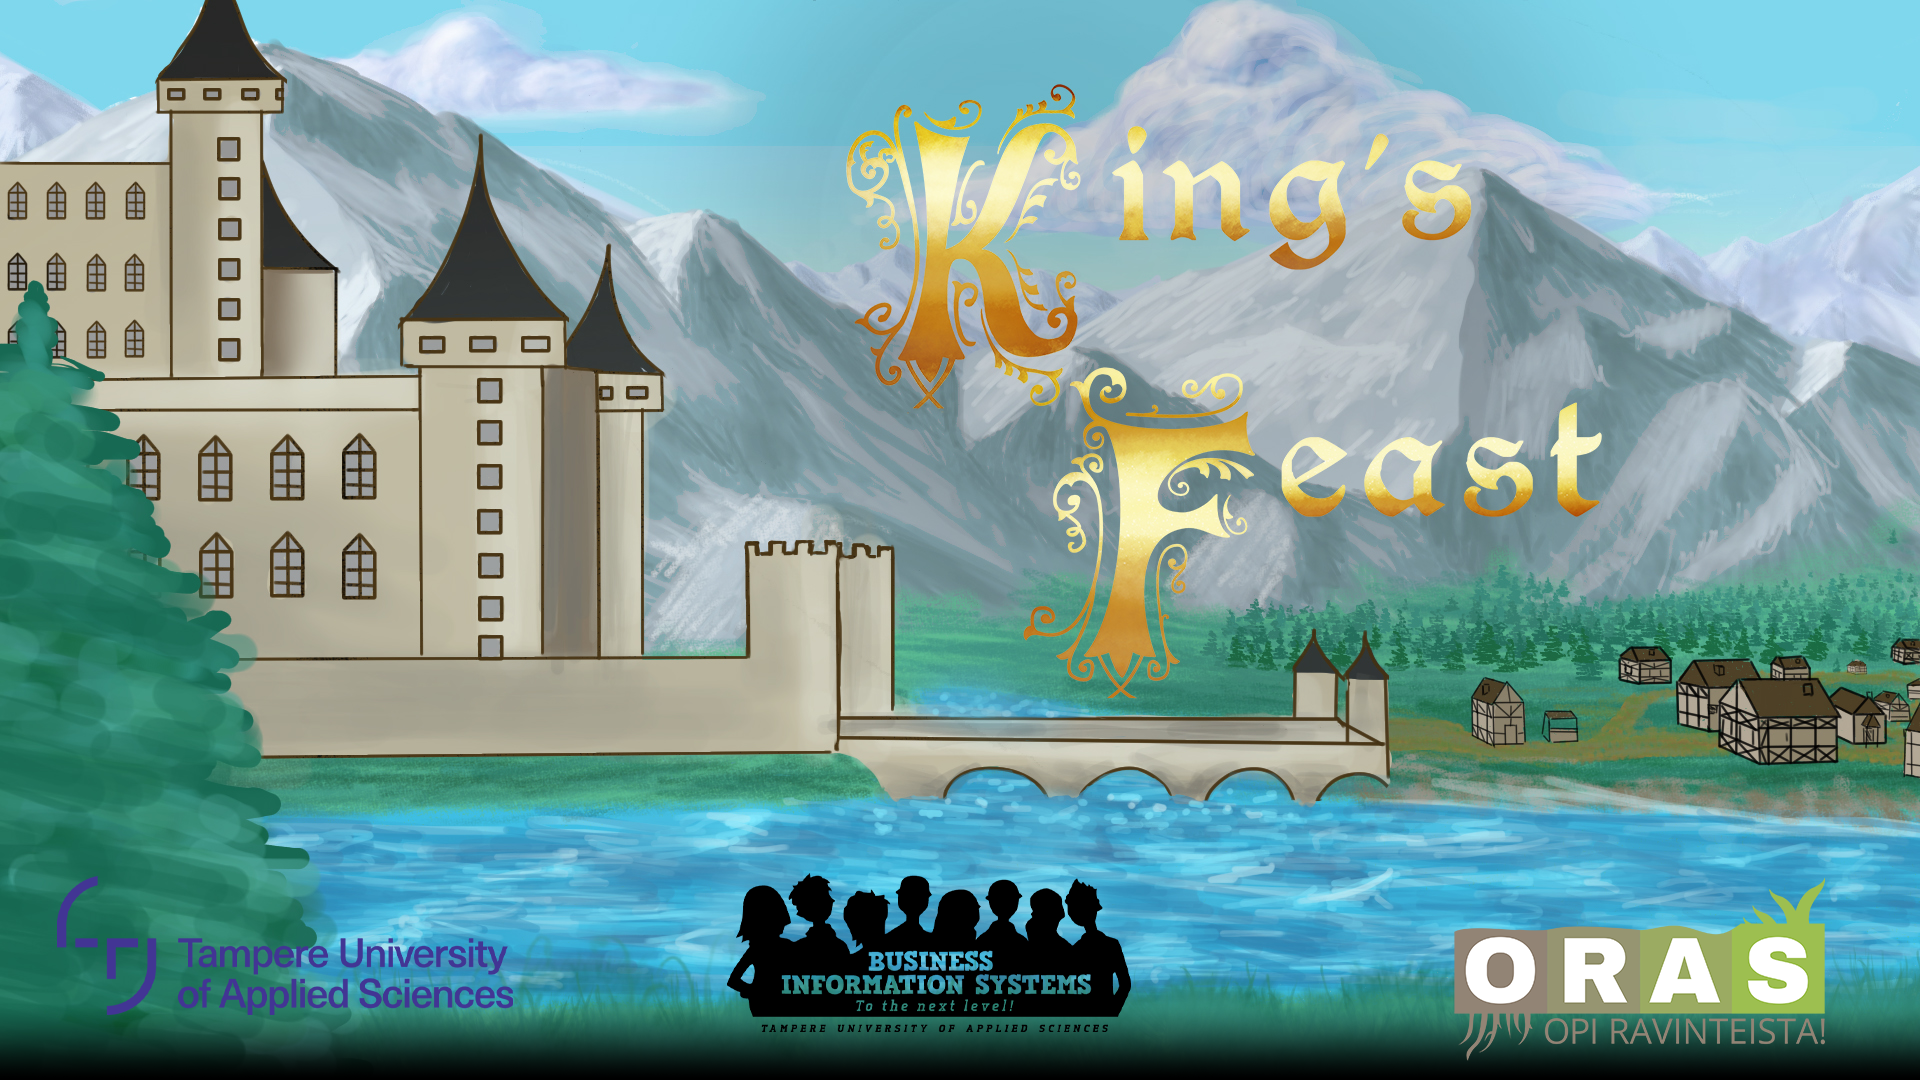
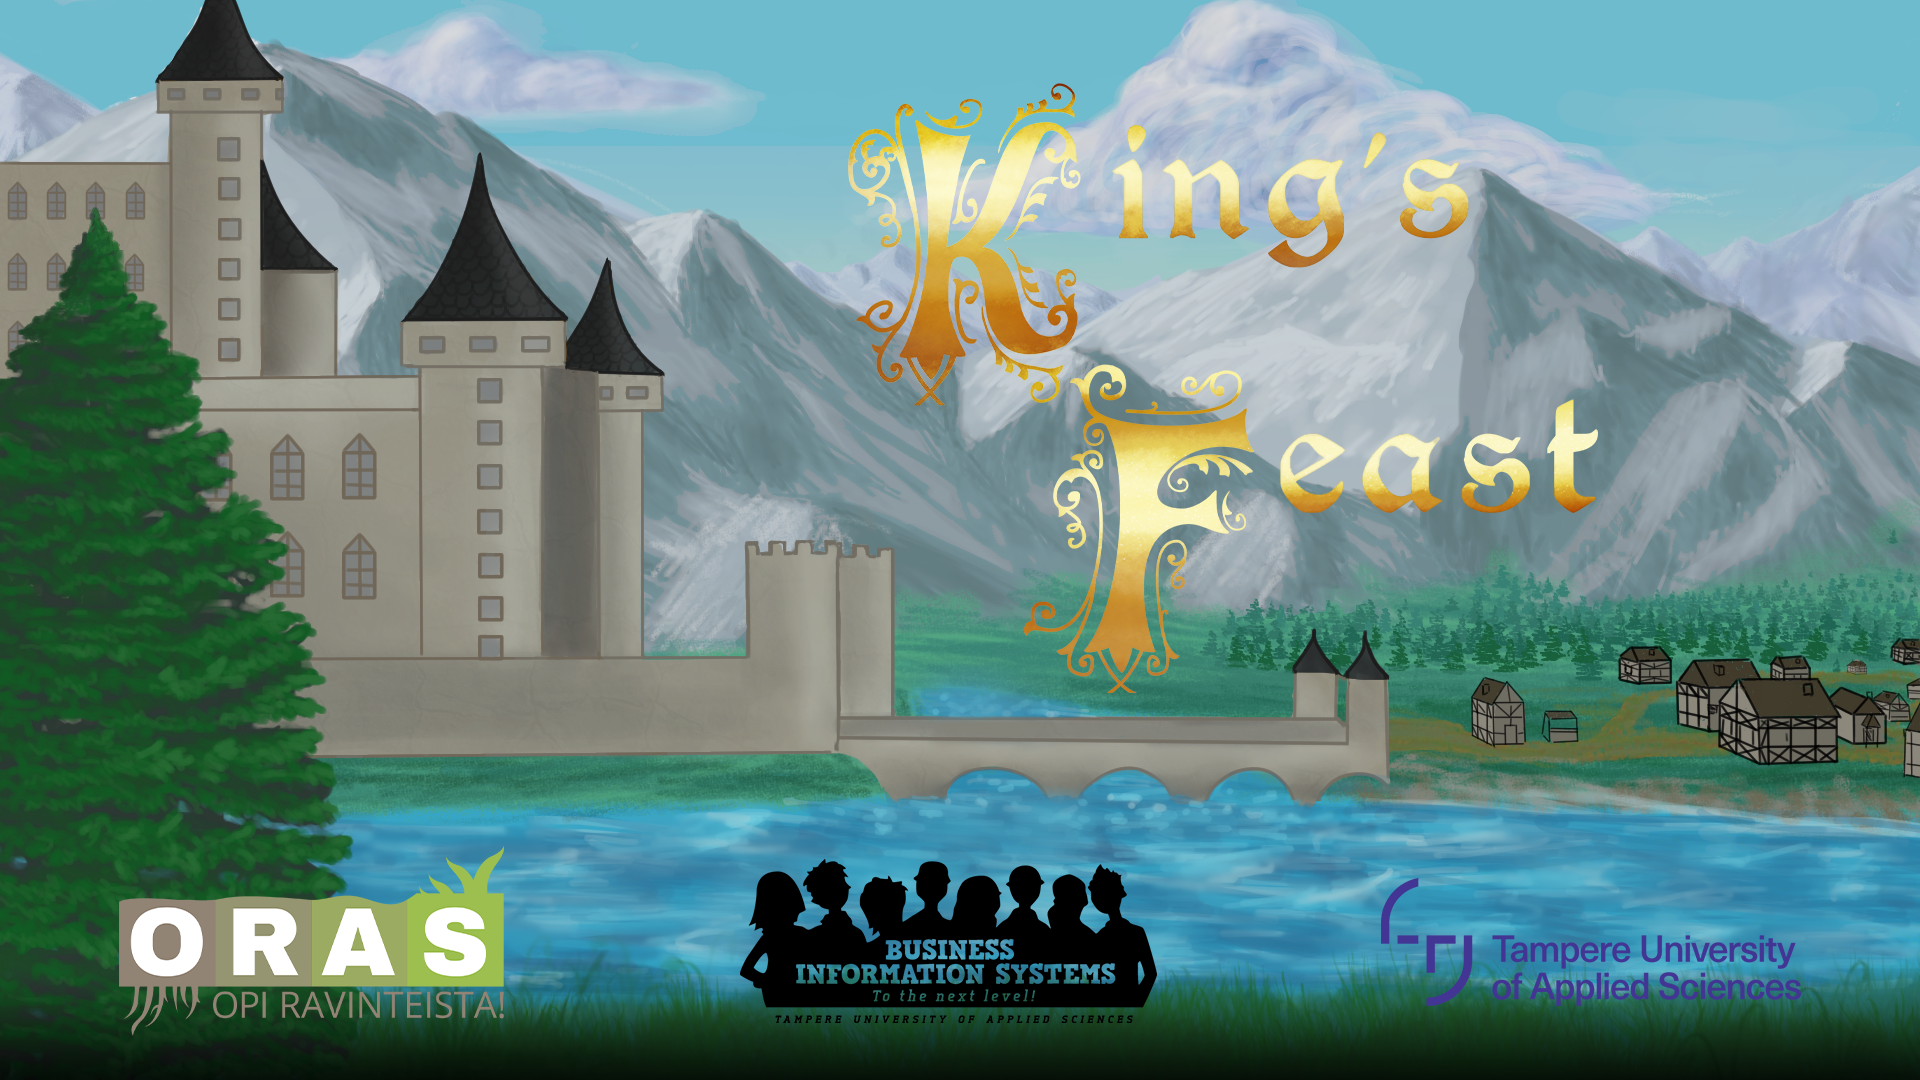
Change background image to a higher quality one

diff --git a/core/src/fi/tuni/tamk/tiko/kingsfeast/LoadingScreen.java b/core/src/fi/tuni/tamk/tiko/kingsfeast/LoadingScreen.java
@@ -126,7 +126,7 @@ public class LoadingScreen extends ScreenAdapter {
         kingsFeast.getAssetManager().load("dot.png", Texture.class);
         kingsFeast.getAssetManager().load("skipButton-up.png", Texture.class);
         kingsFeast.getAssetManager().load("skipButton-down.png", Texture.class);
-        kingsFeast.getAssetManager().load("mainmenubackgroundtitle.jpg", Texture.class);
+        kingsFeast.getAssetManager().load("mainmenubackgroundtitle.png", Texture.class);
         kingsFeast.getAssetManager().load("SettingsButton.png", Texture.class);
         kingsFeast.getAssetManager().load("riverscreen.png", Texture.class);
         kingsFeast.getAssetManager().load("OkButton.png", Texture.class);

diff --git a/core/src/fi/tuni/tamk/tiko/kingsfeast/MainMenuScreen.java b/core/src/fi/tuni/tamk/tiko/kingsfeast/MainMenuScreen.java
@@ -88,7 +88,7 @@ public class MainMenuScreen extends ScreenAdapter {
      * @return Background image.
      */
     private Image createBackgroundImage() {
-        backgroundTexture = kingsFeast.getAssetManager().get("mainmenubackgroundtitle.jpg");
+        backgroundTexture = kingsFeast.getAssetManager().get("mainmenubackgroundtitle.png");
         Image background = new Image(backgroundTexture);
         background.setSize(GAME_WIDTH, GAME_HEIGHT);
         return background;
